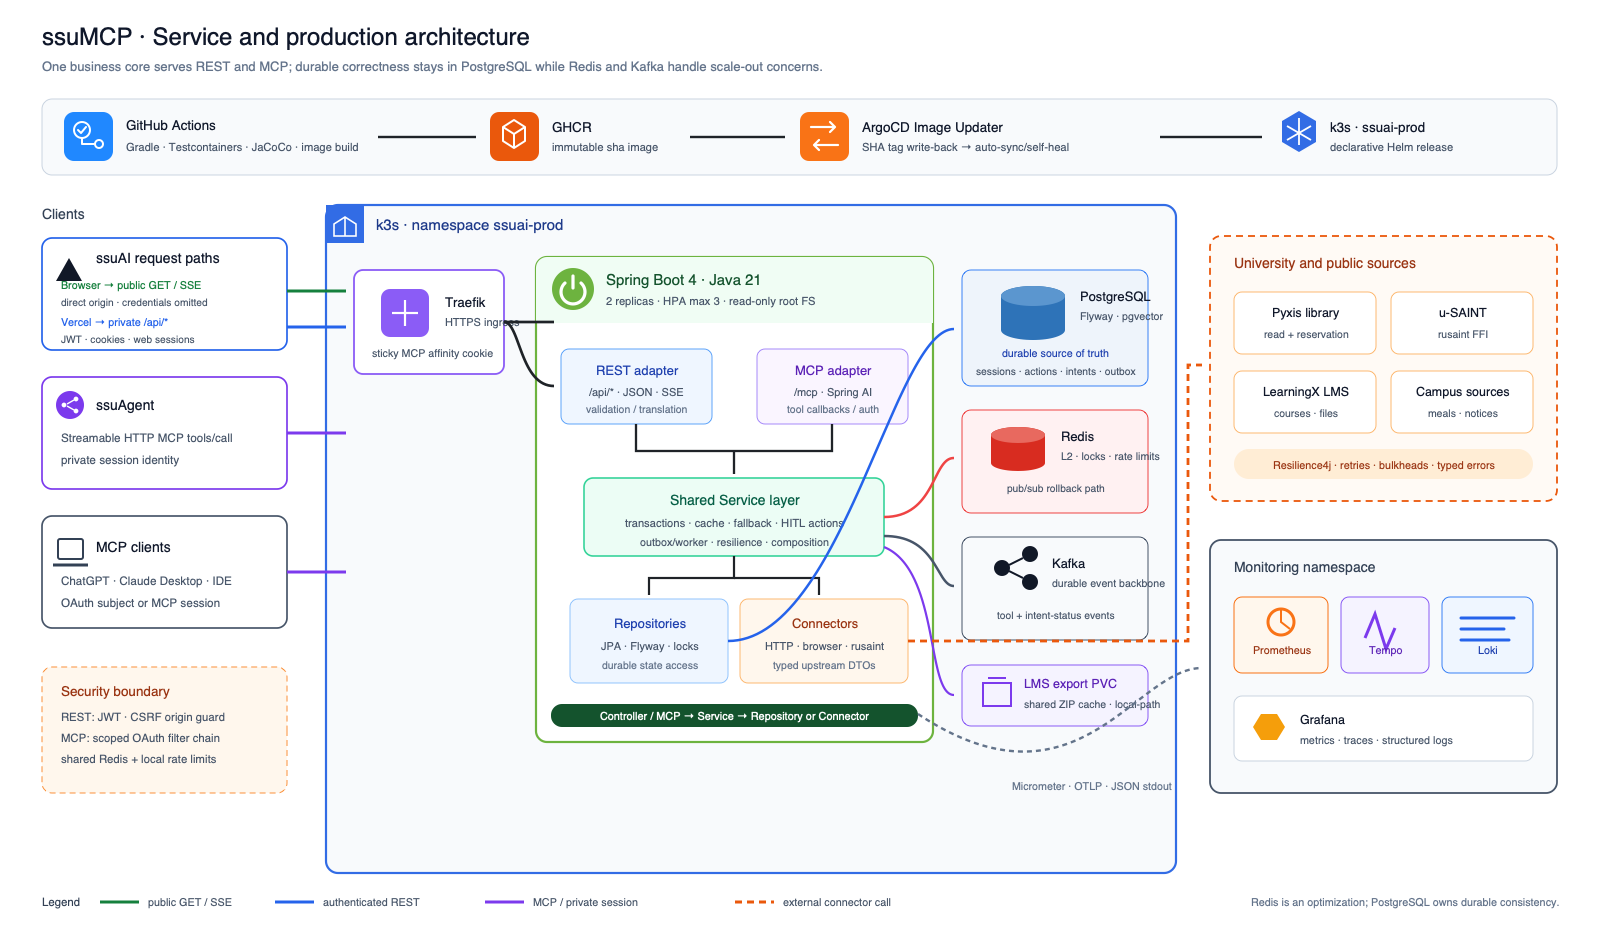
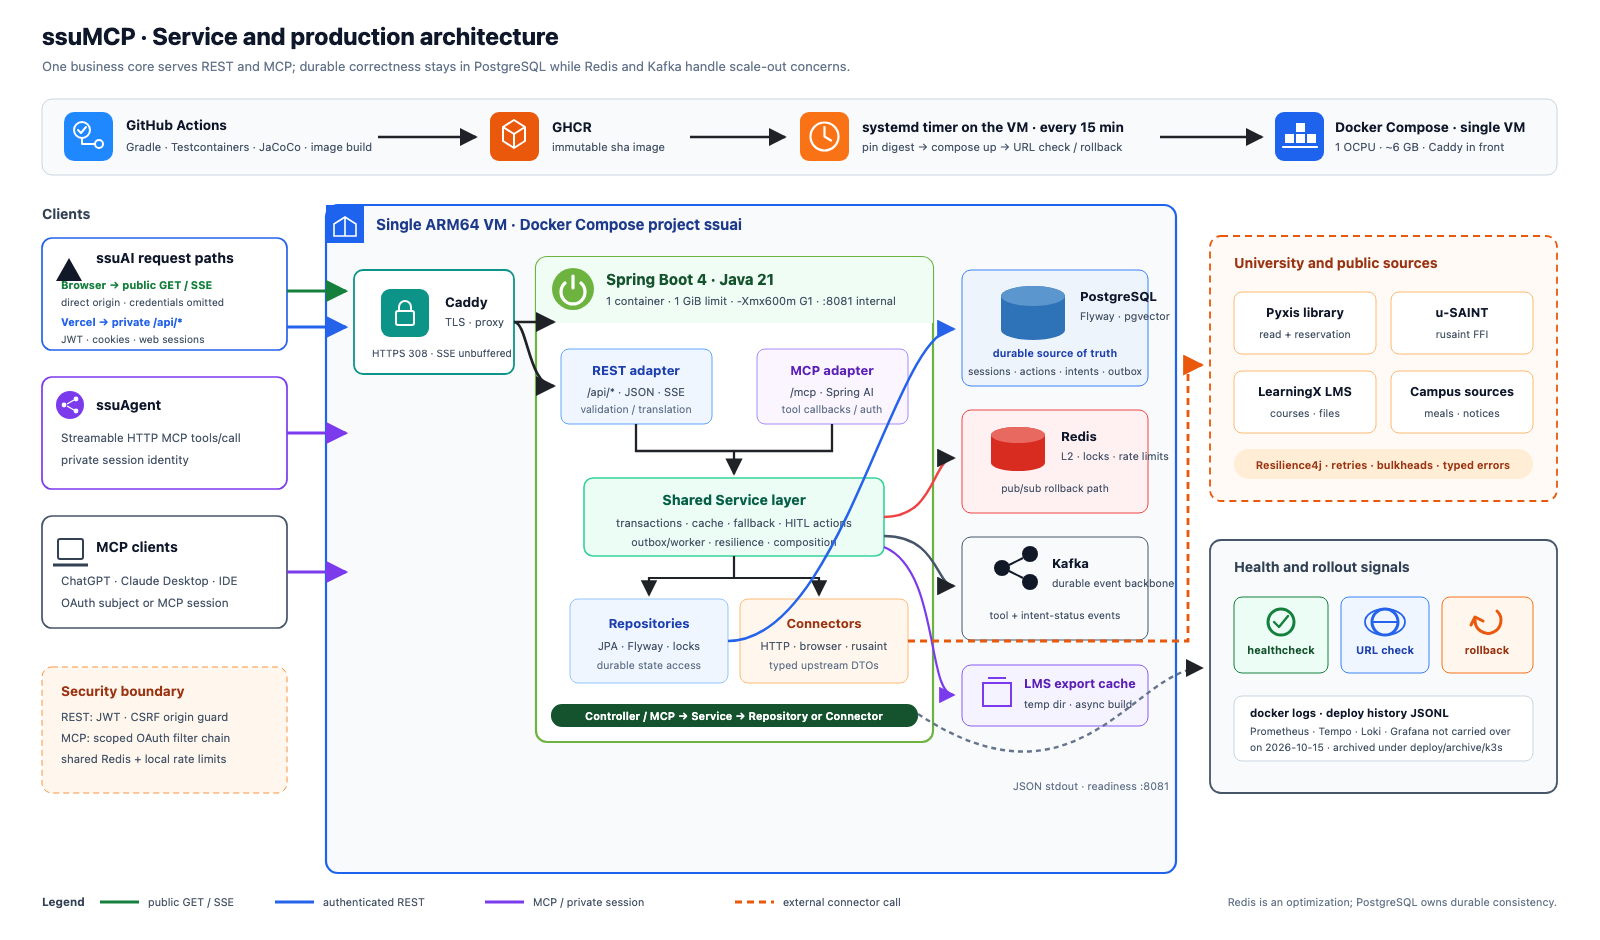
docs: README·아키텍처·보안 문서의 k3s/ArgoCD 서술을 단일 VM Docker Compose 운영 현황으로 정정 (#293)
2026-10-15 이관 뒤에도 README, architecture.md, security.md, security-followups.md, 트러블슈팅·
런북·부하 실험 문서와 아키텍처 다이어그램이 k3s·ArgoCD·Helm·HPA·Prometheus/Grafana를 현재 상태로
서술하고 있었다. ADR 0101 기준으로 현재 경로만 현재형으로 남기고 나머지는 k3s 시절 기록으로 표시한다.

- README.md / README.en.md: 스택 문장, 배포 runbook 링크 문구, 운영 Actuator 서술(공개 주소 404),
  범위와 제약(단일 VM, 인스턴스 1개, 이미지 교체 중 1~2분 미응답), 로컬 실행 주석을 맞춘다.
- docs/architecture.md: 스냅샷 기준일, mermaid의 k3s 라벨과 관측성 서브그래프, 런타임 토폴로지
  (replica/HPA → 인스턴스 1개), 헬스 확인 절(공개 신호는 server-card serverInfo.version과
  POST /mcp initialize), 알림 룰 표를 보관 차트 기준으로 표시한다.
- docs/security.md, docs/security-followups.md: k8s Secret/Helm 주입 → env 파일 주입,
  pod-security·NetworkPolicy·replicas=2 항목을 k3s 시절로 표시한다.
- docs/troubleshooting/mcp-sse-concurrency-saturation.md, docs/runbooks/node-capacity.md,
  load-tests/README.md, docs/mcp-tools.md: 현재 실행 불가한 Argo CD/kubectl 절차에 기록 보존 안내를 붙인다.
- docs/assets/architecture.png: #294가 단일 VM Compose 기준으로 고친 architecture.svg에서 다시
  렌더링한다(기존 PNG는 k3s/ArgoCD 시절 그림이었다). SVG 자체는 #294 버전을 그대로 둔다.

#294(main)와 겹친 README·architecture.md·security.md·node-capacity·load-tests 수정은 두 쪽의 사실
정정을 모두 담은 한 문장으로 합쳤다.

검증: 변경 문서 상대 링크 137개 0 broken, SVG xmllint 통과, 금지 식별자 grep 0건, 렌더링한 PNG 육안 확인.

diff --git a/docs/architecture.md b/docs/architecture.md
@@ -1,7 +1,7 @@
 # ssuMCP 아키텍처
 
 > 패키지명은 `com.ssuai` 로 유지 (ssuAI 모노레포에서 분리됨, 리네임 예정 없음).
-> 현재 아키텍처 스냅샷 기준일: 2026-11-09 (단일 VM Docker Compose, 백엔드 컨테이너 1개, Kafka event backbone, 서버 타이머 pull 반영 — [ADR 0101](adr/0101-single-vm-docker-compose-timer-pull.md)). 2026-10-15 이관 때 k3s/ArgoCD와 Prometheus·Tempo·Loki·Grafana 모니터링 스택은 가져가지 않았고 n8n은 꺼 두었다. 과거 설계 결정은 `docs/adr/`에 보존됨.
+> 현재 아키텍처 스냅샷 기준일: 2026-11-09. 운영은 2026-10-15부터 단일 VM Docker Compose에서 백엔드 컨테이너 1개로 실행한다(Kafka event backbone, 서버 타이머 pull 반영 — [ADR 0101](adr/0101-single-vm-docker-compose-timer-pull.md)). 이관 때 k3s 2–3 pod HA·GitOps(ArgoCD)와 Prometheus·Tempo·Loki·Grafana 모니터링 스택은 가져가지 않았고 n8n은 꺼 두었다. 과거 설계 결정은 `docs/adr/`에 기록으로만 남아 있고 현재 운영하지 않는다.
 
 ## 이 문서의 목적
 
@@ -158,7 +158,7 @@ flowchart LR
 
 ## 2. 런타임 토폴로지
 
-각 ssuMCP 인스턴스는 **하나의 Spring Boot 프로세스**로 다음 두 표면을 함께 노출한다. 프로덕션은 단일 VM의 Docker Compose에서 백엔드 컨테이너 1개로 실행한다(ADR 0101). 이전의 2 replica + CPU HPA 구성(ADR 0088)은 2026-10-15 이관 때 폐기했다.
+ssuMCP 컨테이너는 **하나의 Spring Boot 프로세스**로 다음 두 표면을 함께 노출한다. 프로덕션은 2026-10-15부터 단일 VM의 Docker Compose에서 백엔드 컨테이너 1개로 실행한다(ADR 0101). 그 전의 2–3 replica + CPU HPA 구성(ADR 0088)은 이관 때 폐기했다.
 
 - 웹 대시보드와 챗봇 UI를 위한 REST API.
 - 외부 클라이언트를 위한 MCP 서버 (Spring AI Streamable HTTP `/mcp`).
@@ -185,7 +185,7 @@ flowchart LR
  Redis · Kafka
 ```
 
-**컨테이너 안에서 단일 프로세스인 이유:** REST와 MCP가 같은 도메인 규칙과 transaction을 사용하므로 하나의 배포 단위와 설정 표면이 중복을 줄인다. scale-out은 이 프로세스를 복제하고 PostgreSQL·Redis·Kafka가 인스턴스 간 상태와 이벤트를 조정한다(현재는 1개만 실행하므로 이 경로는 코드에만 남아 있다). 두 adapter를 별도 서비스로 분리하는 것은 독립 부하나 릴리즈 주기가 실제로 생길 때 검토한다.
+**컨테이너 안에서 단일 프로세스인 이유:** REST와 MCP가 같은 도메인 규칙과 transaction을 사용하므로 하나의 배포 단위와 설정 표면이 중복을 줄인다. scale-out이 필요하면 이 프로세스를 복제하고 PostgreSQL·Redis·Kafka가 인스턴스 간 상태와 이벤트를 조정한다(k3s 시절 2–3 replica로 검증했고, 현재는 1개만 실행하므로 이 경로는 코드에만 남아 있다). 두 adapter를 별도 서비스로 분리하는 것은 독립 부하나 릴리즈 주기가 실제로 생길 때 검토한다.
 
 ---
 
@@ -605,7 +605,7 @@ Flyway layout은 `classpath:db/migration/V*__*.sql,classpath:db/migration/{vendo
 | `SSUAI_FRONTEND_ORIGIN` | `WebCorsProdConfig` allowlist | 라이브 (prod) |
 | `SSUAI_SAINT_SSO_URL` / `SSUAI_SAINT_PORTAL_URL` | `SaintSsoProperties` | Task 14부터 — 기본값이 이미 saint.ssu.ac.kr을 가리킴 |
 | `SSUAI_CREDENTIAL_ENCRYPTION_KEY` | AES-GCM SAINT/LMS/도서관 세션 자료 | 프로덕션에서 안정적인 연동 세션을 위해 라이브 |
-| `SSUAI_REDIS_HOST` / `SSUAI_REDIS_PORT` | Redisson single Redis 연결 | local 기본 `localhost:6379`; prod Compose는 같은 internal 네트워크의 Redis 컨테이너 |
+| `SSUAI_REDIS_HOST` / `SSUAI_REDIS_PORT` | Redisson single Redis 연결 | local 기본 `localhost:6379`; prod는 같은 Compose 프로젝트 internal 네트워크의 Redis 컨테이너 |
 | `SSUAI_REDIS_TIMEOUT` / `SSUAI_REDIS_CONNECT_TIMEOUT` | Redis command/connect timeout | 기본 `500ms`; Redis 장애 시 빠르게 L1-only fallback |
 | `SSUAI_LIBRARY_REDIS_ENABLED` | Redis adapter master switch | 기본 `true`; false면 no-op adapter |
 | `SSUAI_LIBRARY_REDIS_ROOM_SEAT_CACHE_KEY_PREFIX` | 좌석 L2 cache key prefix | 기본 `ssuai:library:room-seats:v1` |
@@ -636,17 +636,19 @@ Flyway layout은 `classpath:db/migration/V*__*.sql,classpath:db/migration/{vendo
 
 상태 확인은 로컬 기본 profile에서 application port의 `/actuator/health`, production에서는 컨테이너
 내부 management port 8081의 `/actuator/health/readiness`를 Docker healthcheck로 사용한다. Caddy는
-application port 8080만 프록시하므로 actuator와 health detail은 공개 주소에서 404다
-([ADR 0100](adr/0100-production-security-boundaries.md)). 메트릭·분산 트레이싱·중앙 로그의 코드 쪽
-구성(Micrometer·OTel·JSON 로그, [ADR 0069](adr/0069-observability-three-pillars.md))은 남아 있지만,
-수집 스택 Prometheus·Tempo·Loki·Grafana는 2026-10-15 단일 VM 이관 때 가져가지 않아 현재 운영하지
+application port 8080만 프록시하므로 actuator와 health detail은 공개 주소에서 404이고
+([ADR 0100](adr/0100-production-security-boundaries.md)), 밖에서 확인할 수 있는 신호는
+`/.well-known/mcp/server-card.json`의 `serverInfo.version`과 `POST /mcp initialize`의 `serverInfo.version`이다.
+메트릭·분산 트레이싱·중앙 로그의 코드 쪽 구성(Micrometer·OTel·JSON 로그,
+[ADR 0069](adr/0069-observability-three-pillars.md))은 남아 있지만, 수집 스택 Prometheus·Tempo·Loki·Grafana는
+2026-10-15 단일 VM 이관 때 가져가지 않아 현재 운영하지
 않는다([ADR 0101](adr/0101-single-vm-docker-compose-timer-pull.md)). backend의 OTLP 트레이스 내보내기는
 꺼져 있고, 로그는 컨테이너 json-file 로그를 `docker logs`로 읽는다.
 
 아래 Prometheus 알림 룰은 k3s 운영 당시 쓰던 것으로
 [`deploy/archive/k3s/charts/ssuai-backend/templates/prometheus-rules.yaml`](../deploy/archive/k3s/charts/ssuai-backend/templates/prometheus-rules.yaml)에
-참고용으로 보관돼 있다. selector는 백엔드 series가 실제로 갖는 `job="ssuai-backend"` 라벨 기준이며,
-`application` 라벨은 백엔드 scrape series에 없어 쓰지 않았다.
+참고용으로 보관돼 있으며 현재 평가되지 않는다. selector는 백엔드 series가 실제로 갖는 `job="ssuai-backend"`
+라벨 기준이며, `application` 라벨은 백엔드 scrape series에 없어 쓰지 않았다.
 
 | alert | 목적 | 대표 expr |
 | --- | --- | --- |

diff --git a/README.en.md b/README.en.md
@@ -95,7 +95,7 @@ its own version, and the registry's latest is still 0.1.1, so `npx ssumcp` start
 
 ## Architecture
 
-![ssuMCP service and production architecture showing the shared service layer, state stores, university connectors, and the single-VM Compose rollout path](docs/assets/architecture.svg)
+![ssuMCP service and production architecture showing the shared service layer, state stores, university connectors, and the image build and single-VM Compose rollout path](docs/assets/architecture.svg)
 
 REST controllers and MCP `@Tool` adapters call the same service layer. Every external university
 system sits behind a `*Connector` interface. The default profile uses deterministic mocks for
@@ -135,15 +135,16 @@ ssuAI REST/BFF or MCP client
 | External API latency, 429s, and concurrent reservations | [failure scenarios](docs/failure-scenarios.md) · [reservation concurrency integration test](src/test/java/com/ssuai/domain/library/reservation/intent/LibraryReservationIntentConcurrencyIT.java) |
 | Process loss after an upstream write | Durable action phases and current-charge reconciliation — [ADR 0099](docs/adr/0099-crash-reconciled-library-actions.md) |
 | Traceable retrieval under embedding failure | Lexical + embedding RRF, source metadata, and lexical fallback — [ADR 0020](docs/adr/0020-academic-policy-hybrid-rag.md) |
-| Deployment of an unverified image | Multi-arch image publication runs after the test/JaCoCo gate — [CI workflow](.github/workflows/ci.yml) · [deployment runbook](deploy/README.md) |
+| Deployment of an unverified image | Multi-arch image publication runs after the test/JaCoCo gate, and the server-side timer swaps the image only after a public URL check, rolling back on failure — [CI workflow](.github/workflows/ci.yml) · [deployment runbook](deploy/README.md) |
 | Reproducing and preventing operational failures | [Troubleshooting highlights](docs/troubleshooting-highlights.md) · [load experiment](docs/performance/library-agent-load-test.md) |
 
 The main stack is Java 21, Spring Boot 4.1, Spring AI, PostgreSQL, Redis/Redisson, Kafka,
-Resilience4j, and Testcontainers. The u-SAINT connector calls the Rust library rusaint through a
-uniffi-generated Kotlin binding. Production runs on Docker Compose and Caddy on a single VM
-([ADR 0101](docs/adr/0101-single-vm-docker-compose-timer-pull.md)); the former k3s/ArgoCD/Helm
-definitions and the Prometheus, Loki, and Tempo monitoring stack were not carried over in the
-2026-10-15 move and remain under [`deploy/archive/k3s/`](deploy/archive/k3s/README.md) for reference only.
+Resilience4j, Testcontainers, Docker Compose, GitHub Actions, and GHCR. The u-SAINT connector calls
+the Rust library rusaint through a uniffi-generated Kotlin binding. Since 2026-10-15 production runs
+on Docker Compose and Caddy on a single VM ([ADR 0101](docs/adr/0101-single-vm-docker-compose-timer-pull.md));
+the former k3s/ArgoCD/Helm definitions and the Prometheus, Loki, and Tempo monitoring stack were not
+carried over in that move and remain under [`deploy/archive/k3s/`](deploy/archive/k3s/README.md) for
+reference only.
 
 ## Local development and verification
 
@@ -155,7 +156,7 @@ Redis at `localhost:6379`.
 git clone https://github.com/ghdtjdwn/ssuMCP.git
 cd ssuMCP
 
-# (a) Start the same Redis 8 line the production chart uses, then run
+# (a) Start the same Redis 8 line production uses, then run
 docker run -d --name ssumcp-redis -p 6379:6379 redis:8-alpine
 ./gradlew bootRun
 
@@ -182,8 +183,8 @@ authoritative gate.
 ```
 
 See [`.env.example`](.env.example) and the [deployment runbook](deploy/README.md) for real connectors
-and operations. Production Actuator endpoints are available only through the internal management
-service port. Never commit real credentials. Contribution steps are in
+and operations. Production Actuator endpoints exist only on the container-internal management port;
+`/actuator/*` on the public host returns 404. Never commit real credentials. Contribution steps are in
 [CONTRIBUTING](.github/CONTRIBUTING.md) (Korean).
 
 ## Documentation
@@ -200,8 +201,9 @@ service port. Never commit real credentials. Contribution steps are in
   a connector.
 - Private tools require a valid university account and authentication for the relevant provider.
   Provider session tokens are stored AES-GCM encrypted and never surface in tool responses or logs.
-- The public endpoint is project infrastructure running on Docker Compose on a single VM and
-  provides no commercial SLA. MCP request rate and concurrent requests are capped per IP.
+- The public endpoint is project infrastructure on a single VM (Docker Compose, one instance) and
+  provides no commercial SLA. It can be unavailable for 1–2 minutes while an image is swapped, and MCP
+  request rate and concurrent requests are capped per IP.
 
 ## License
 

diff --git a/docs/security-followups.md b/docs/security-followups.md
@@ -17,7 +17,7 @@
 
 | # | 항목 | 결론 | 근거 |
 |---|---|---|---|
-| R1 | k8s NetworkPolicy egress 제한 | **기각(현 인프라)** — k3s 내장 kube-router는 FQDN egress 미지원(IP/CIDR만)이고 egress 대상 ~20개(LLM 9·학교 11)가 전부 동적 CDN IP라 CIDR allowlist는 IP 회전마다 조용히 사망. default-deny 시 앱 대부분 마비. 진짜 해법 = **Cilium CNI 교체 후 FQDN/DNS-aware egress**(단일노드 프로젝트엔 과투자). ingress-only NP도 staging 없는 단일노드에서 위험 대비 가치 marginal. 기술적 근거: "왜 egress를 안 막았나" → CNI 제약 + SaaS 동적 IP 현실 + Cilium 대안 제시 | 2026-06-30 결정 |
+| R1 | k8s NetworkPolicy egress 제한 | **기각(k3s 당시) → 2026-10-15 k3s 폐기로 종결**(현재는 단일 VM Docker Compose, DB·Redis·Kafka는 호스트 포트 없는 internal 네트워크 — [ADR 0101](adr/0101-single-vm-docker-compose-timer-pull.md)). 당시 판단 — k3s 내장 kube-router는 FQDN egress 미지원(IP/CIDR만)이고 egress 대상 ~20개(LLM 9·학교 11)가 전부 동적 CDN IP라 CIDR allowlist는 IP 회전마다 조용히 사망. default-deny 시 앱 대부분 마비. 진짜 해법 = **Cilium CNI 교체 후 FQDN/DNS-aware egress**(단일노드 프로젝트엔 과투자). ingress-only NP도 staging 없는 단일노드에서 위험 대비 가치 marginal. 기술적 근거: "왜 egress를 안 막았나" → CNI 제약 + SaaS 동적 IP 현실 + Cilium 대안 제시 | 2026-06-30 결정 |
 | R2 | 컨테이너 read-only rootfs | ✅ **적용·prod 검증**(rootfs 쓰기 차단 + `/tmp` emptyDir, JNA/rusaint FFI 동작 확인) | [ADR 0066](adr/0066-readonly-rootfs.md) |
 | R3 | DB 무결성·retention (#27) | ✅ **retention 잡 배포**(terminal 행 일일 정리 180/30/30일). CHECK/FK 제약은 **의도적 미적용** — status CHECK는 enum 추가와 어긋나면 정상 쓰기 차단(ADR 0055 기각 유지), FK는 retention delete-coupling 충돌 | [ADR 0072](adr/0072-db-retention-scheduled-job.md) · ADR 0055 |
 | R4 | LMS capability 토큰 1회성 | ✅ **적용**(스트림 전 READY→DOWNLOADED 원자 선점, 동시 요청 단일 승자와 이후 replay 차단) | [ADR 0067](adr/0067-lms-single-use-download-token.md) |
@@ -31,5 +31,5 @@
 | R12 | `get_notice_detail` SSRF allowlist (M1) | ✅ **완료** — host allowlist + 수동 hop 루프 리다이렉트 재검증(fetch 전 검증, ≤5 hop) | 2026-06-30 · 2026-07-02 |
 | R13 | 도서관 debug/내부 카운터 노출 (M2) | ✅ **완료** — public tool에서 `debug` 파라미터 제거 + 내부 카운터 4종 응답 제거 | 2026-06-30 |
 | R14 | 명시 MCP 세션이 transport로 fallback하는 P0 | ✅ **완료** — authoritative resolver가 explicit ID를 정확히 검증하고, invalid/invalidated는 `INVALID_SESSION`, transport 불일치는 `SESSION_MISMATCH`로 fail-closed. LMS export/action/wait/capability owner도 exact MCP session으로 제한. 28개 private MCP HTTP 회귀 + 52-tool inventory가 release gate | [ADR 0098](adr/0098-authoritative-mcp-session-resolution.md) · 2026-07-14 |
-| R15 | 멀티포드 claim/lease와 shared rate-limit | ✅ **완료·운영 중** — backend replicas=2/HPA 2~3에 맞춰 outbox·LMS export worker는 `FOR UPDATE SKIP LOCKED` claim/lease, inbound/Pyxis 한도는 Redis shared limiter를 사용한다. | [ADR 0079](adr/0079-multipod-background-row-claim-lease.md), [ADR 0080](adr/0080-multipod-shared-ratelimit-dualcap.md), [ADR 0088](adr/0088-ha-replicas-hpa-pdb.md) |
+| R15 | 멀티포드 claim/lease와 shared rate-limit | ✅ **완료** — k3s 시절 backend replicas=2/HPA 2~3에 맞춰 outbox·LMS export worker는 `FOR UPDATE SKIP LOCKED` claim/lease, inbound/Pyxis 한도는 Redis shared limiter를 사용한다. 2026-10-15부터 인스턴스 1개로 운영해([ADR 0101](adr/0101-single-vm-docker-compose-timer-pull.md)) replica 간 경로는 실행되지 않지만 코드는 유지한다. | [ADR 0079](adr/0079-multipod-background-row-claim-lease.md), [ADR 0080](adr/0080-multipod-shared-ratelimit-dualcap.md), [ADR 0088](adr/0088-ha-replicas-hpa-pdb.md) |
 | R16 | Spring Boot 4.1.x 재시도 (#110) | ✅ **완료** — JWT serializer를 `jjwt-gson`으로 분리하고 Boot 4.1.0으로 전환했다. Jackson 3 전환이 JWT claim 역직렬화를 깨뜨리지 않도록 런타임 의존성과 인증 회귀 테스트를 유지한다. | `build.gradle`, 인증 테스트 |

diff --git a/load-tests/README.md b/load-tests/README.md
@@ -135,11 +135,11 @@ docker compose up -d postgres wiremock          # (+ redis on :6379)
 
 ## 7. replica-scale-comparison — 1-vs-2 replica 비교 (P1-10, ADR 0088)
 
-> **Historical (k3s retired 2026-10-15).** 아래 절차는 k3s + ArgoCD 운영 당시 기준이다. 현재는 단일 VM
-> Docker Compose에서 백엔드 컨테이너 1개만 실행하므로([ADR 0101](../docs/adr/0101-single-vm-docker-compose-timer-pull.md))
-> `kubectl`·ArgoCD 단계는 재현할 수 없고 replica 비교 자체가 성립하지 않는다. k6 스크립트
-> `replica-scale-comparison.js`는 공개 도구 하나만 호출하므로 단일 인스턴스 처리량 측정에는 그대로 쓸 수 있다.
-> 참조하던 ArgoCD Application 정의는 `deploy/archive/k3s/argocd/application-ssuai-backend.yaml`로 옮겨졌다.
+> **2026-10-15 이후 재현 불가 (k3s 시절 실험 절차).** 운영이 단일 VM Docker Compose의 백엔드 컨테이너 1개로
+> 바뀌어([ADR 0101](../docs/adr/0101-single-vm-docker-compose-timer-pull.md)) 아래 `kubectl scale`·ArgoCD 단계는
+> 더 이상 실행할 수 없고 replica 비교 자체가 성립하지 않는다. k6 스크립트 `replica-scale-comparison.js`는 공개
+> 도구 하나만 호출하므로 단일 인스턴스 처리량 측정에는 그대로 쓸 수 있다. 참조하던 ArgoCD Application 정의는
+> `deploy/archive/k3s/argocd/application-ssuai-backend.yaml`로 옮겨졌다.
 
 > **위 시나리오들과 달리 이 스크립트는 prod에 직접 돌리는 용도다.** `get_library_seat_catalog`는
 > 정적 카탈로그 조회로 LIBRARY 로그인도, Pyxis 업스트림 호출도 타지 않는 완전 공개(인증 불필요)

diff --git a/docs/runbooks/node-capacity.md b/docs/runbooks/node-capacity.md
@@ -1,12 +1,12 @@
 # 노드 디스크 응급조치 & 부트볼륨 확장 런북
 
-> **Historical (k3s node retired 2026-10-15).** 이 런북은 k3s 단일 노드 서버 기준으로 작성했고, 그 서버는
-> 2026-10-15에 종료했다. 현재 운영 환경(단일 VM Docker Compose, 1 OCPU / 약 6GB)은
+> **기록 보존용 (k3s 노드 2026-10-15 종료).** 이 런북은 k3s 단일 노드 서버 기준으로 작성했고, 그 서버는
+> 2026-10-15에 종료되어 부트 볼륨도 삭제됐다. 현재 운영 환경(단일 VM Docker Compose, 1 OCPU / 약 6GB)은
 > [`../../deploy/README.md`](../../deploy/README.md)와
-> [ADR 0101](../adr/0101-single-vm-docker-compose-timer-pull.md)을 본다. 아래 `kubectl`·k3s 명령은
+> [ADR 0101](../adr/0101-single-vm-docker-compose-timer-pull.md)을 본다. 아래 `kubectl`·k3s 절차는
 > 현재 서버에서 실행되지 않는다.
 
-대상: 프로덕션 단일 노드 k3s 클러스터 (Oracle Cloud ARM Ampere A1, Ubuntu 22.04,
+대상: 프로덕션 단일 노드 k3s 클러스터(당시) (Oracle Cloud ARM Ampere A1, Ubuntu 22.04,
 k3s v1.35.4). 관련 배포 문서는 [`../../deploy/README.md`](../../deploy/README.md),
 아키텍처 배경은 [`../adr/0007-prod-deploy-oracle-k3s.md`](../adr/0007-prod-deploy-oracle-k3s.md) 참조.
 

diff --git a/docs/mcp-tools.md b/docs/mcp-tools.md
@@ -325,7 +325,7 @@ MCP:         http://localhost:8080/mcp
 
 > 로컬 빌드 없이 **라이브 prod 서버**에 바로 붙어봐도 된다(공개 도구는 인증 불필요):
 > REST smoke `https://ssumcp.duckdns.org/api/meals/today` · MCP `https://ssumcp.duckdns.org/mcp`
-> — production Actuator는 내부 management port에만 있고 public ingress에서는 404여야 한다. 아래
+> — production Actuator는 컨테이너 내부 management port에만 있고 공개 주소에서는 404다. 아래
 > inspector/클라이언트 설정의 `http://localhost:8080/mcp`를 live MCP URL로 바꾸면 된다.
 
 ## 4. MCP inspector 로 검증
